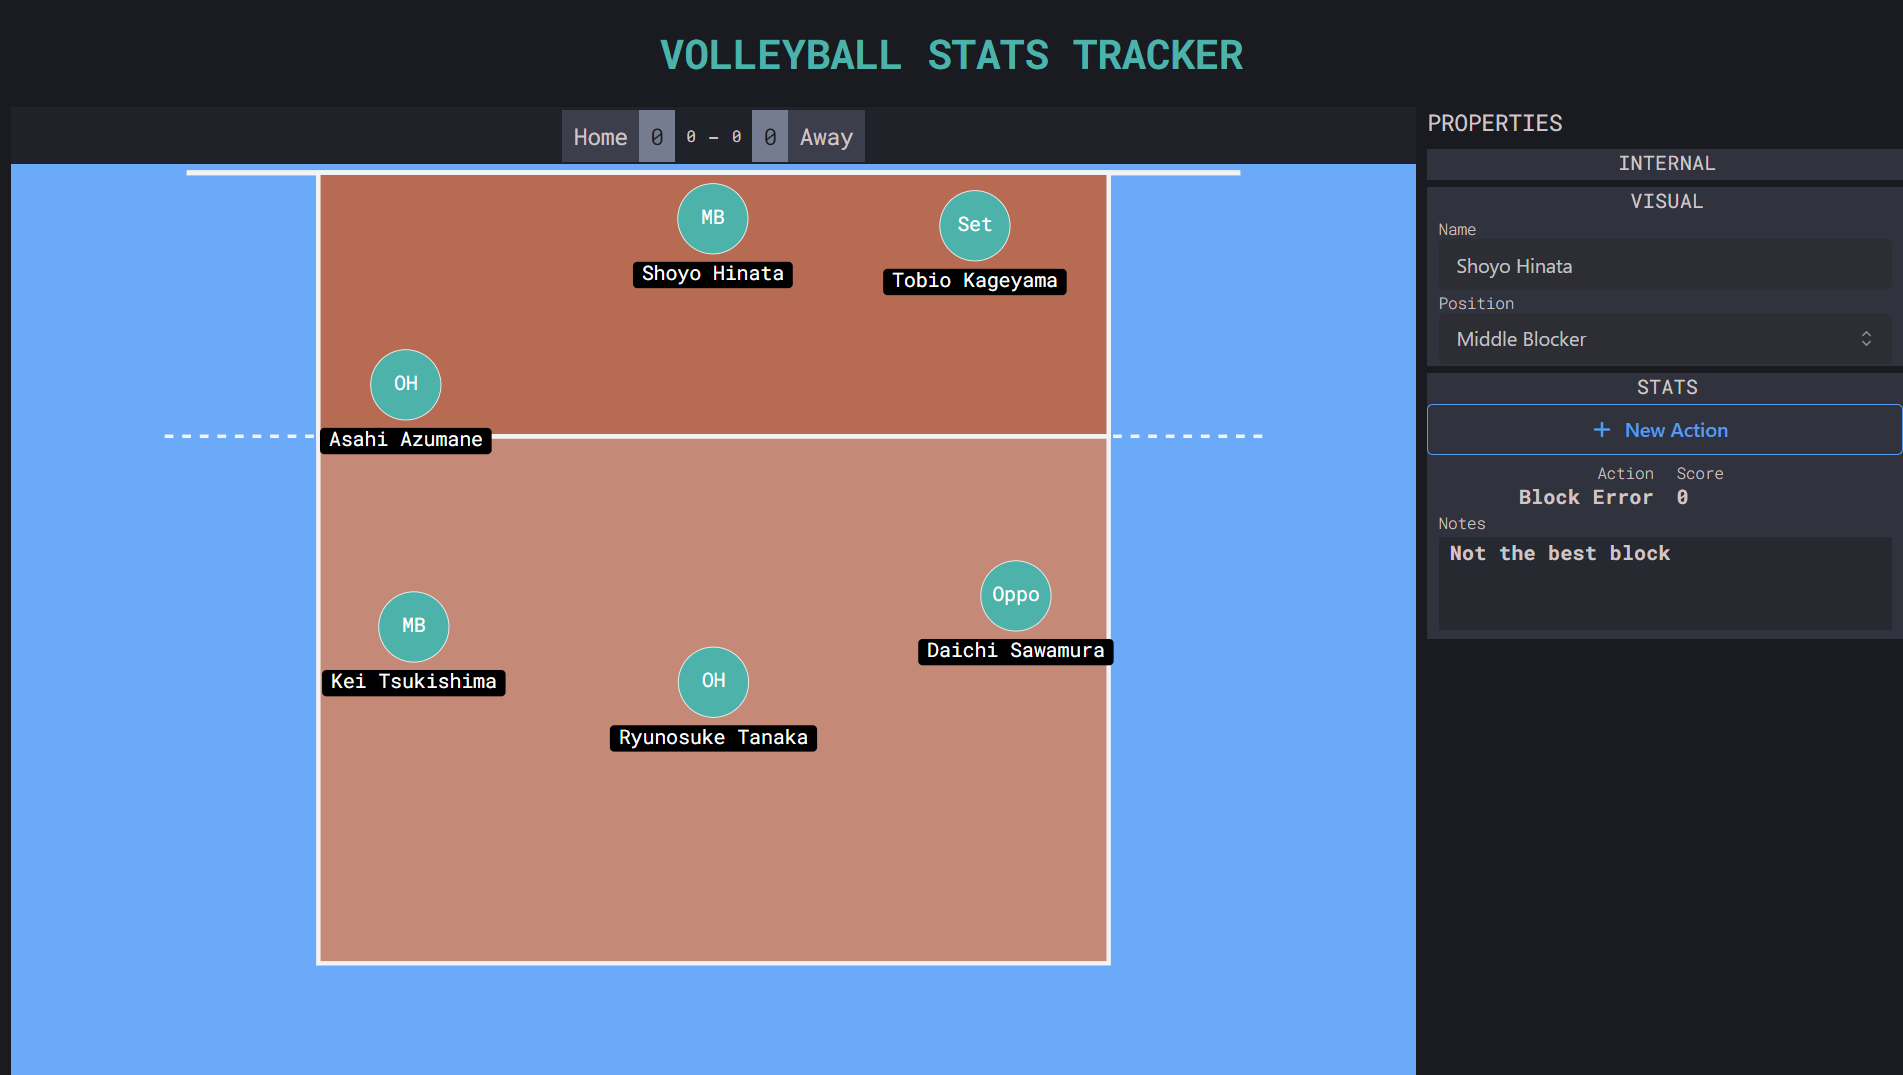
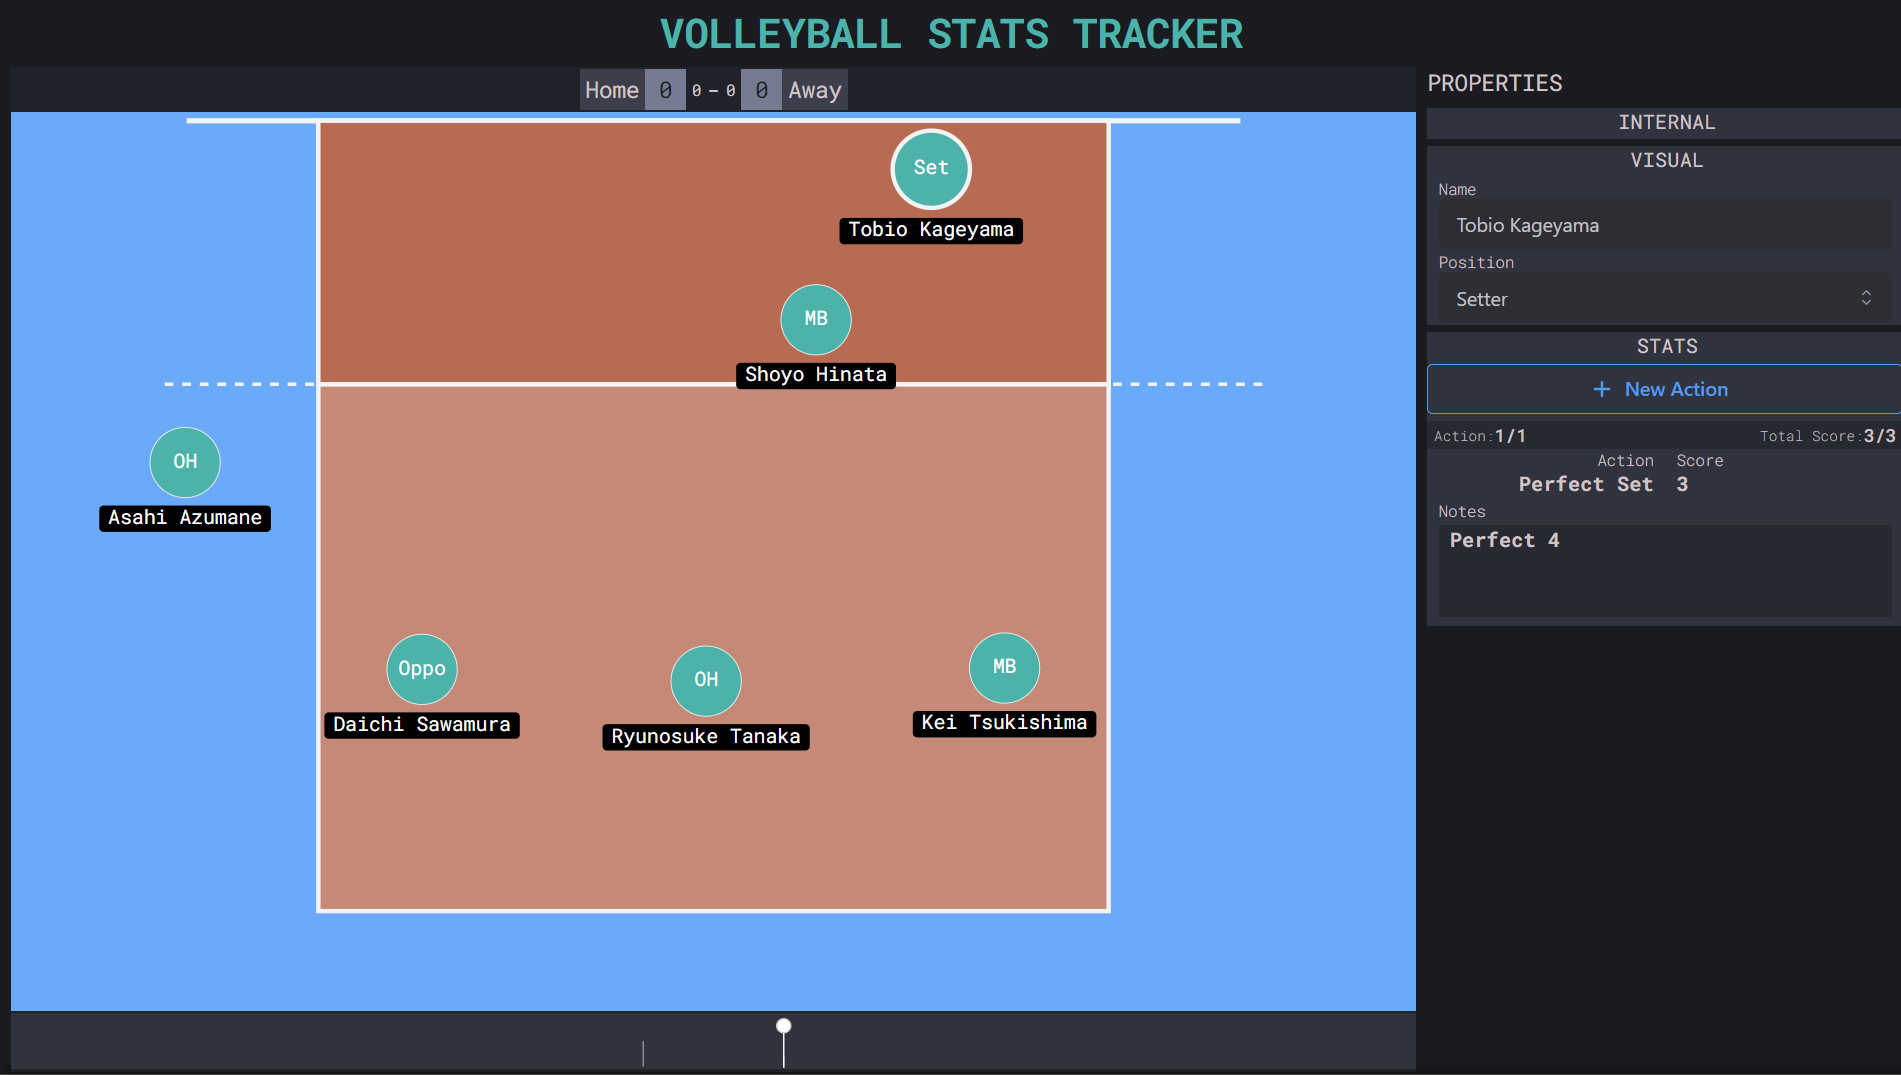
Updates readme file implements highlight of a selected player

diff --git a/src/components/Visualizer/Player.Component.tsx b/src/components/Visualizer/Player.Component.tsx
@@ -17,6 +17,8 @@ import { PlayerLocation } from "types/volleyballTool.New.Types";
  * @returns React component
  */
 const PlayerComponent = (props: PlayerComponentProps) => {
+  /** Destructuring props */
+  const { id, radius, color, name, onPressed, onReleased, svgRef } = props;
   const dispatch = useAppDispatch();
   // players
   const players = useAppSelector((selector) => selector.playersReducer);
@@ -24,11 +26,12 @@ const PlayerComponent = (props: PlayerComponentProps) => {
   const playersLocations = useAppSelector((selector) => selector.playersLocationsSlice);
   // current game state
   const { currentState } = useAppSelector((selector) => selector.gameStateSlice);
+  // selected player id
+  const { selectedId } = useAppSelector((selector) => selector.inspectorSlice);
+  // is current player selected or not
+  const isPlayerSelected = selectedId === id;
 
   const isFontLoaded = useFontFaceObserver([{ family: "Roboto-Mono" }]);
-
-  /** Destructuring props */
-  const { id, radius, color, name, onPressed, onReleased, svgRef } = props;
 
   const location = playersLocations.byGameStateId[currentState ?? ""]?.[id] ?? playersLocations.byPlayerId[id];
   // current player location
@@ -163,6 +166,9 @@ const PlayerComponent = (props: PlayerComponentProps) => {
     setPlayerLocation({ ...playerLocation, x: newX, y: newY });
   };
 
+  // calculate the final radius of the player circle element
+  const effectiveRadius = isPlayerSelected ? radius * 1.1 : radius;
+
   return (
     <g
       onMouseDown={onMouseDown}
@@ -174,13 +180,20 @@ const PlayerComponent = (props: PlayerComponentProps) => {
       className="vt-svg-player"
       id={id}
     >
-      <circle stroke="black" cx={playerLocation.x} cy={playerLocation.y} r={radius} fill={color} />
+      <circle
+        stroke="black"
+        cx={playerLocation.x}
+        cy={playerLocation.y}
+        r={effectiveRadius}
+        fill={color}
+        strokeWidth={isPlayerSelected ? 5 : 1}
+      />
       <g transform={`translate(${playerLocation.x}, ${playerLocation.y})`}>
         <text textAnchor="middle" alignmentBaseline="middle" fill="white">
           {PositionsById[players.byId[id].positionId].shortName}
         </text>
       </g>
-      <g transform={`translate(${playerLocation.x}, ${playerLocation.y + 1.6 * radius})`}>
+      <g transform={`translate(${playerLocation.x}, ${playerLocation.y + 1.6 * effectiveRadius})`}>
         <rect strokeWidth={2} width={rectWidth} height={30} fill="black" x={-rectWidth / 2} y={-15} rx={5} />
         <text ref={textRef} textAnchor="middle" alignmentBaseline="middle" fill="white">
           {name || playerName}

diff --git a/README.md b/README.md
@@ -1,5 +1,8 @@
 # project-volleyball-tools
 
+![version](https://badgen.net/badge/version/v0.0.2/yellow)
+![dev status](https://badgen.net/badge/status/In%20Development/orange)
+
 <img src="docs/imgs/Main-page.png" width="800px" /><br/>
 
 ## Description
